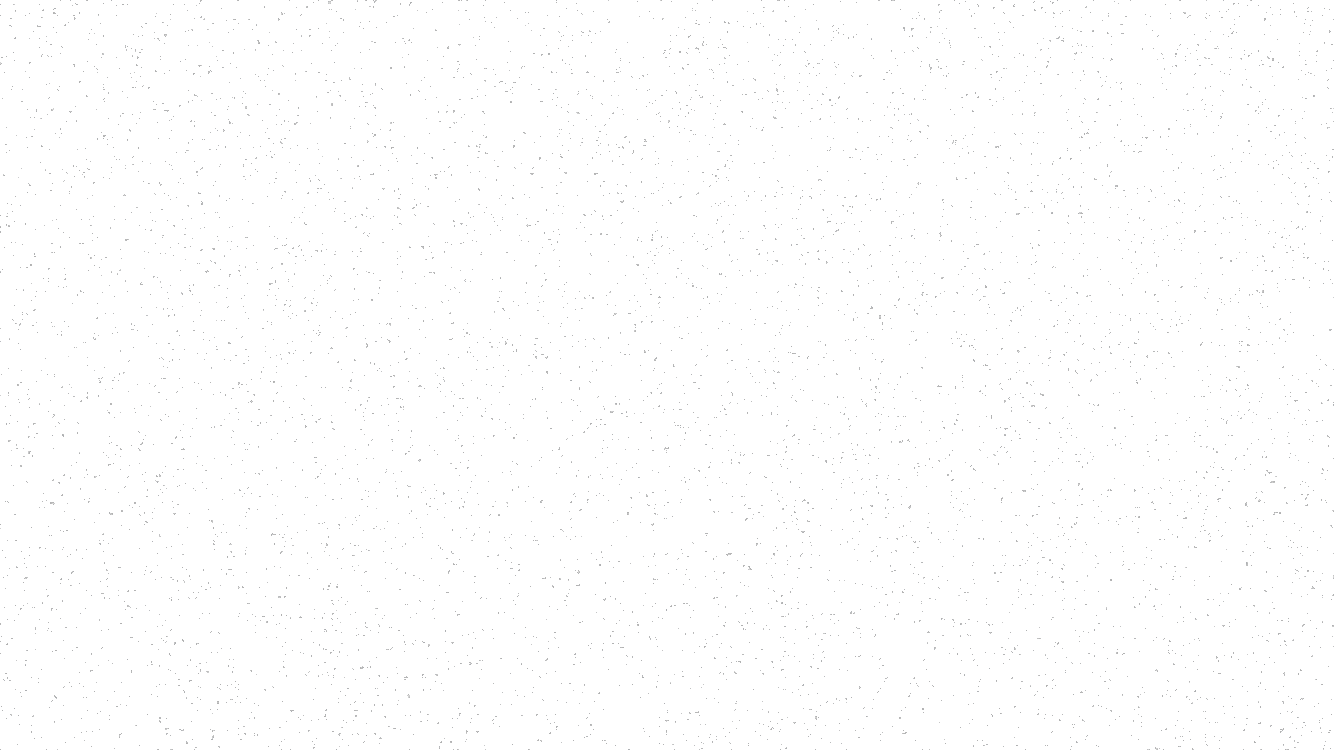
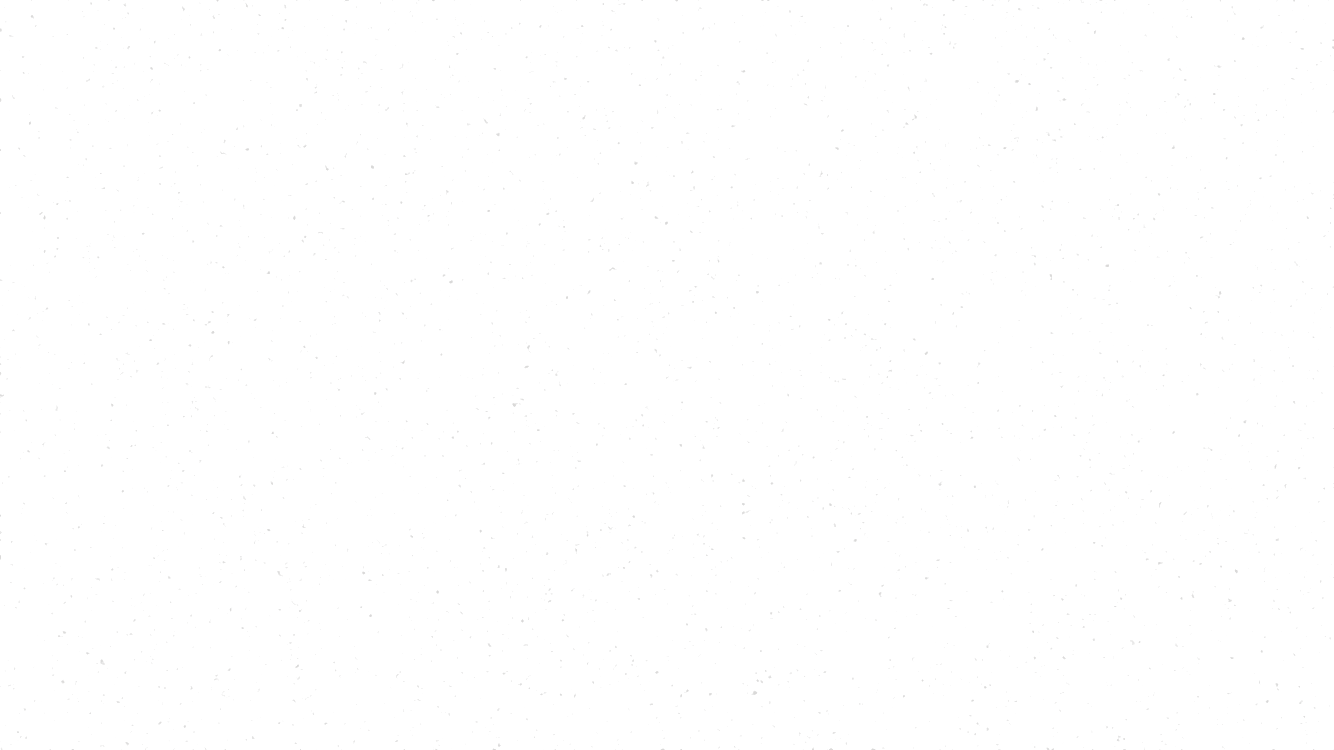
Better graphics... lightened things up to match old sci-fi movie color pallete

diff --git a/app/scripts/game.min.js b/app/scripts/game.min.js
@@ -95,78 +95,6 @@ var run = function() {
 };
 
 
-toot.environment.Background = function(game) {
-    this.game = game;
-};
-
-toot.environment.Background.prototype.preload = function() {
-    this.game.load.image('bg-space', 'images/bg-space.jpg');
-    this.game.load.image('bg-stars-small', 'images/bg-stars-small.png');
-    this.game.load.image('bg-stars-large', 'images/bg-stars-large.png');
-};
-
-toot.environment.Background.prototype.create = function() {
-    var w = this.game.world.width;
-    var h = this.game.world.height;
-    this.spaceBg = this.game.add.tileSprite(0, 0, w, h, 'bg-space');
-    this.starsSm = this.game.add.tileSprite(0, 0, w, h, 'bg-stars-small');
-    this.starsLg = this.game.add.tileSprite(0, 0, w, h, 'bg-stars-large');
-};
-
-toot.environment.Background.prototype.update = function() {
-    this.spaceBg.tilePosition.x -= 0.1;
-    this.starsSm.tilePosition.x -= 0.2;
-    this.starsLg.tilePosition.x -= 0.3;
-
-};
-
-
-toot.environment.Ground = function(game) {
-    this.game = game;
-};
-
-toot.environment.Ground.prototype.preload = function() {
-    this.game.load.image('ground', 'images/ground.jpg');
-};
-
-toot.environment.Ground.prototype.create = function() {
-    var w = this.game.world.width;
-    var h = this.game.world.height;
-
-    var yPos = h - 64;
-    this.ground = this.game.add.tileSprite(0, yPos, w, h, 'ground');
-
-    this.game.physics.arcade.enable(this.ground);
-    this.ground.body.immovable = true;
-
-    // bug in phaser 2.3.0
-    // see: http://www.html5gamedevs.com/topic/13856-problem-with-collide-method-from-physics-arcade-in-different-versions-of-phaser/?p=79032
-    this.ground.physicsType = Phaser.SPRITE;
-};
-
-toot.environment.Ground.prototype.update = function() {
-    this.ground.tilePosition.x -= 1.25;
-};
-
-toot.environment.Ground.prototype.getColliders = function() {
-    return this.ground;
-};
-
-toot.environment.Vignette = function(game) {
-    this.game = game;
-};
-
-toot.environment.Vignette.prototype.preload = function() {
-    this.game.load.image('vignette', 'images/vignette.png');
-};
-
-toot.environment.Vignette.prototype.create = function() {
-    var w = this.game.world.width;
-    var h = this.game.world.height;
-    this.v = this.game.add.sprite(0, 0, 'vignette');
-};
-
-
 toot.character.Player = function(game) {
     this.game = game;
     this.sprite = null;
@@ -219,6 +147,92 @@ toot.character.Player.prototype.getColliders = function() {
     return this.sprite;
 };
 
+
+toot.environment.Background = function(game) {
+    this.game = game;
+};
+
+toot.environment.Background.prototype.preload = function() {
+    this.game.load.image('bg-space', 'images/bg-space.jpg');
+    this.game.load.image('bg-stars-small', 'images/bg-stars-small.png');
+    this.game.load.image('bg-stars-dense', 'images/bg-stars-small-dense.png');
+    this.game.load.image('bg-stars-large', 'images/bg-stars-large.png');
+
+    this.game.load.image('bg-horizon', 'images/bg-horizon-gradient.png');
+    this.game.load.image('bg-mountains-01', 'images/bg-mountains-01.png');
+    this.game.load.image('bg-mountains-02', 'images/bg-mountains-02.png');
+};
+
+toot.environment.Background.prototype.create = function() {
+    var w = this.game.world.width;
+    var h = this.game.world.height;
+    this.spaceBg = this.game.add.tileSprite(0, 0, w, h, 'bg-space');
+    this.starsLg = this.game.add.tileSprite(0, 0, w, h, 'bg-stars-large');
+    this.spaceDs = this.game.add.tileSprite(0, 0, w, h, 'bg-stars-dense');
+    this.starsSm = this.game.add.tileSprite(0, 0, w, h, 'bg-stars-small');
+
+    this.horizon = this.game.add.tileSprite(0, 0, w, h, 'bg-horizon');
+
+    this.mountains1 = this.game.add.tileSprite(0, 0, w, h, 'bg-mountains-01');
+    this.mountains2 = this.game.add.tileSprite(0, 0, w, h, 'bg-mountains-02');
+};
+
+toot.environment.Background.prototype.update = function() {
+    this.spaceBg.tilePosition.x -= 0.075;
+    this.starsLg.tilePosition.x -= 0.100;
+    this.spaceDs.tilePosition.x -= 0.125;
+    this.starsSm.tilePosition.x -= 0.150;
+
+    this.mountains1.tilePosition.x -= 0.20;
+    this.mountains2.tilePosition.x -= 0.25;
+};
+
+
+toot.environment.Ground = function(game) {
+    this.game = game;
+};
+
+toot.environment.Ground.prototype.preload = function() {
+    this.game.load.image('ground', 'images/ground.jpg');
+};
+
+toot.environment.Ground.prototype.create = function() {
+    var w = this.game.world.width;
+    var h = this.game.world.height;
+
+    var yPos = h - 97;
+    this.ground = this.game.add.tileSprite(0, yPos, w, h, 'ground');
+
+    this.game.physics.arcade.enable(this.ground);
+    this.ground.body.immovable = true;
+
+    // bug in phaser 2.3.0
+    // see: http://www.html5gamedevs.com/topic/13856-problem-with-collide-method-from-physics-arcade-in-different-versions-of-phaser/?p=79032
+    this.ground.physicsType = Phaser.SPRITE;
+};
+
+toot.environment.Ground.prototype.update = function() {
+    this.ground.tilePosition.x -= 0.85;
+};
+
+toot.environment.Ground.prototype.getColliders = function() {
+    return this.ground;
+};
+
+toot.environment.Vignette = function(game) {
+    this.game = game;
+};
+
+toot.environment.Vignette.prototype.preload = function() {
+    this.game.load.image('vignette', 'images/vignette.png');
+};
+
+toot.environment.Vignette.prototype.create = function() {
+    var w = this.game.world.width;
+    var h = this.game.world.height;
+    this.v = this.game.add.sprite(0, 0, 'vignette');
+};
+
 toot.obstacle.Generator = function(game) {
     this.game = game;
 };
@@ -256,4 +270,4 @@ toot.ui.Distance.prototype.update = function() {
     this.display.text = 'distance: ' + Math.round(toot.currentDistance / 10);
 };
 
[2 lines of base64/hex data omitted]

diff --git a/app/scripts/environment/background.js b/app/scripts/environment/background.js
@@ -6,20 +6,34 @@ toot.environment.Background = function(game) {
 toot.environment.Background.prototype.preload = function() {
     this.game.load.image('bg-space', 'images/bg-space.jpg');
     this.game.load.image('bg-stars-small', 'images/bg-stars-small.png');
+    this.game.load.image('bg-stars-dense', 'images/bg-stars-small-dense.png');
     this.game.load.image('bg-stars-large', 'images/bg-stars-large.png');
+
+    this.game.load.image('bg-horizon', 'images/bg-horizon-gradient.png');
+    this.game.load.image('bg-mountains-01', 'images/bg-mountains-01.png');
+    this.game.load.image('bg-mountains-02', 'images/bg-mountains-02.png');
 };
 
 toot.environment.Background.prototype.create = function() {
     var w = this.game.world.width;
     var h = this.game.world.height;
     this.spaceBg = this.game.add.tileSprite(0, 0, w, h, 'bg-space');
-    this.starsSm = this.game.add.tileSprite(0, 0, w, h, 'bg-stars-small');
     this.starsLg = this.game.add.tileSprite(0, 0, w, h, 'bg-stars-large');
+    this.spaceDs = this.game.add.tileSprite(0, 0, w, h, 'bg-stars-dense');
+    this.starsSm = this.game.add.tileSprite(0, 0, w, h, 'bg-stars-small');
+
+    this.horizon = this.game.add.tileSprite(0, 0, w, h, 'bg-horizon');
+
+    this.mountains1 = this.game.add.tileSprite(0, 0, w, h, 'bg-mountains-01');
+    this.mountains2 = this.game.add.tileSprite(0, 0, w, h, 'bg-mountains-02');
 };
 
 toot.environment.Background.prototype.update = function() {
-    this.spaceBg.tilePosition.x -= 0.1;
-    this.starsSm.tilePosition.x -= 0.2;
-    this.starsLg.tilePosition.x -= 0.3;
+    this.spaceBg.tilePosition.x -= 0.075;
+    this.starsLg.tilePosition.x -= 0.100;
+    this.spaceDs.tilePosition.x -= 0.125;
+    this.starsSm.tilePosition.x -= 0.150;
 
+    this.mountains1.tilePosition.x -= 0.20;
+    this.mountains2.tilePosition.x -= 0.25;
 };

diff --git a/app/scripts/environment/ground.js b/app/scripts/environment/ground.js
@@ -11,7 +11,7 @@ toot.environment.Ground.prototype.create = function() {
     var w = this.game.world.width;
     var h = this.game.world.height;
 
-    var yPos = h - 64;
+    var yPos = h - 97;
     this.ground = this.game.add.tileSprite(0, yPos, w, h, 'ground');
 
     this.game.physics.arcade.enable(this.ground);
@@ -23,7 +23,7 @@ toot.environment.Ground.prototype.create = function() {
 };
 
 toot.environment.Ground.prototype.update = function() {
-    this.ground.tilePosition.x -= 1.25;
+    this.ground.tilePosition.x -= 0.85;
 };
 
 toot.environment.Ground.prototype.getColliders = function() {
